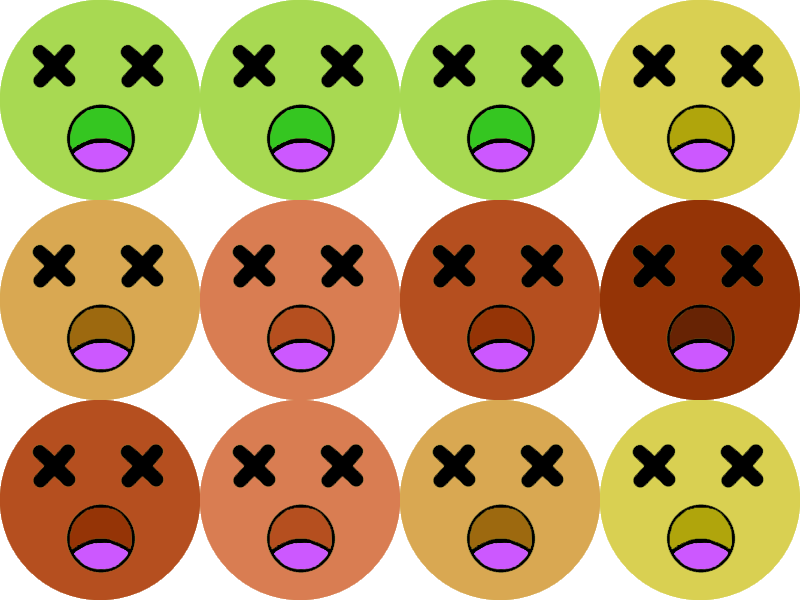
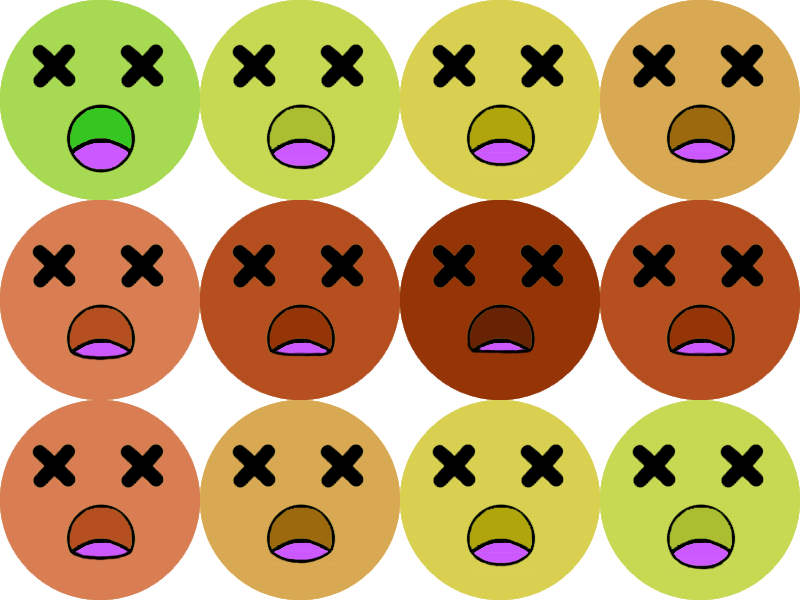
max size stuff

diff --git a/Code/core/src/edu/cornell/gdiac/model/ComplexOobModel.java b/Code/core/src/edu/cornell/gdiac/model/ComplexOobModel.java
@@ -61,6 +61,7 @@ public class ComplexOobModel extends ComplexObstacle {
     private boolean teleporting;
     private boolean hurting;
     private boolean dying;
+    private boolean max;
 
     /** Variables for Oob animation */
 
@@ -157,6 +158,21 @@ public class ComplexOobModel extends ComplexObstacle {
     public void set_Dying_sheet(Texture val){Dying_Sheet = val;}
 
     public Texture get_Dying_sheet(){return Dying_Sheet;}
+
+
+
+
+    private Animation<TextureRegion> Max_Animation; // Must declare frame type (TextureRegion)
+
+    public Animation<TextureRegion> get_Max_anim(){return Max_Animation;}
+
+
+    private Texture Max_Sheet;
+
+    public void set_Max_sheet(Texture val){Max_Sheet = val;}
+
+    public Texture get_Max_sheet(){return Max_Sheet;}
+
 
 
     public void set_Shot_Cooldown(int c) {SHOT_COOLDOWN = c; }
@@ -432,38 +448,44 @@ public class ComplexOobModel extends ComplexObstacle {
 
     public boolean isNormal() {return normal;}
     public void setNormal(boolean bool) {
-        normal = bool; growing = false; command = false; flying=false; teleporting=false; hurting= false; dying= false;
+        normal = bool; growing = false; command = false; flying=false; teleporting=false; hurting= false; dying= false; max= false;
     }
 
     public boolean isGrowing() {return growing;}
     public void setGrowing(boolean bool) {
-        normal = false; growing = bool; command = false; flying=false; teleporting=false; hurting= false; dying= false;
+        normal = false; growing = bool; command = false; flying=false; teleporting=false; hurting= false; dying= false; max= false;
     }
 
     public boolean isCommand() {return command;}
     public void setCommand(boolean bool) {
-        normal = false; growing = false; command = bool; flying=false; teleporting=false; hurting= false; dying= false;
+        normal = false; growing = false; command = bool; flying=false; teleporting=false; hurting= false; dying= false; max= false;
     }
 
     public boolean isFlying() {return flying;}
     public void setFlying(boolean bool) {
-        normal = false; growing = false; command = false; flying = bool; teleporting=false; hurting= false; dying= false;
+        normal = false; growing = false; command = false; flying = bool; teleporting=false; hurting= false; dying= false; max= false;
     }
 
     public boolean isTeleporting() {return teleporting;}
     public void setTeleporting(boolean bool) {
-        normal = false; growing = false; command = false; flying = false; teleporting=bool; hurting= false; dying= false;
+        normal = false; growing = false; command = false; flying = false; teleporting=bool; hurting= false; dying= false; max= false;
     }
 
     public boolean isHurting() {return hurting;}
     public void setHurting(boolean bool) {
-        normal = false; growing = false; command = false; flying=false; teleporting=false; hurting = bool; dying= false;
+        normal = false; growing = false; command = false; flying=false; teleporting=false; hurting = bool; dying= false; max= false;
     }
 
     public boolean isDying() {return dying;}
     public void setDying(boolean bool) {
-        normal = false; growing = false; command = false; flying=false; teleporting=false; hurting= false; dying = bool;
+        normal = false; growing = false; command = false; flying=false; teleporting=false; hurting= false; dying = bool; max= false;
     }
+
+    public boolean isMax() {return max;}
+    public void setMax(boolean bool) {
+        normal = false; growing = false; command = false; flying=false; teleporting=false; hurting= false; dying = false; max= bool;
+    }
+
 
     public void reset_face() {
         normal=false;
@@ -473,15 +495,20 @@ public class ComplexOobModel extends ComplexObstacle {
         teleporting=false;
         hurting=false;
         dying=false;
+        max=false;
     }
 
+
+    public enum Face {
+        NORMAL, GROWING, COMMAND, FLYING, TELEPORTING, HURTING, DYING, MAX
+    }
 
 
 
     public void createNormaltex() {
 
         // Constant rows and columns of the sprite sheet
-        int FRAME_COLS = 40, FRAME_ROWS = 1;
+        int FRAME_COLS = 5, FRAME_ROWS = 5;
 
         // Use the split utility method to create a 2D array of TextureRegions. This is
         // possible because this sprite sheet contains frames of equal size and they are
@@ -501,7 +528,7 @@ public class ComplexOobModel extends ComplexObstacle {
         }
 
         // Initialize the Animation with the frame interval and array of frames
-        Normal_Animation = new Animation<TextureRegion>(.05f, frames);
+        Normal_Animation = new Animation<TextureRegion>(.1f, frames);
 
     }
 
@@ -670,6 +697,32 @@ public class ComplexOobModel extends ComplexObstacle {
         }
 
         // Initialize the Animation with the frame interval and array of frames
-        Dying_Animation = new Animation<TextureRegion>(.1f, frames);
+        Dying_Animation = new Animation<TextureRegion>(.15f, frames);
+    }
+
+    public void createMaxtex() {
+
+        // Constant rows and columns of the sprite sheet
+        int FRAME_COLS = 4, FRAME_ROWS = 3;
+
+        // Use the split utility method to create a 2D array of TextureRegions. This is
+        // possible because this sprite sheet contains frames of equal size and they are
+        // all aligned.
+        TextureRegion[][] tmp = TextureRegion.split(Max_Sheet,
+                Max_Sheet.getWidth() / FRAME_COLS,
+                Max_Sheet.getHeight() / FRAME_ROWS);
+
+        // Place the regions into a 1D array in the correct order, starting from the top
+        // left, going across first. The Animation constructor requires a 1D array.
+        TextureRegion[] frames = new TextureRegion[FRAME_COLS * FRAME_ROWS];
+        int index = 0;
+        for (int i = 0; i < FRAME_ROWS; i++) {
+            for (int j = 0; j < FRAME_COLS; j++) {
+                frames[index++] = tmp[i][j];
+            }
+        }
+
+        // Initialize the Animation with the frame interval and array of frames
+        Max_Animation = new Animation<TextureRegion>(.15f, frames);
     }
 }

diff --git a/Code/core/src/edu/cornell/gdiac/controller/PlayMode.java b/Code/core/src/edu/cornell/gdiac/controller/PlayMode.java
@@ -55,14 +55,15 @@ public class PlayMode extends WorldController implements ContactListener {
 //    protected static final String OOB_HURTING_FILE = "space/planets/blackHole_old.png";
 //    protected static final String OOB_DYING_FILE = "space/planets/dying.png";
 
-    protected static final String OOB_NORMAL_FILE =   "space/animations/OobBlink.png";
+    protected static final String OOB_NORMAL_FILE =   "space/animations/OobNeutral.png";
     //"space/planets/start.png";
     protected static final String OOB_GROWING_FILE = "space/animations/blackHoleAnim.png";
     protected static final String OOB_COMMAND_FILE = "space/animations/explosionAnim.png";
     protected static final String OOB_FLYING_FILE = "space/animations/OobBlink.png";
     protected static final String OOB_TELEPORTING_FILE = "space/animations/oobHappy.png";
     protected static final String OOB_HURTING_FILE = "space/animations/OobSad.png";
-    protected static final String OOB_DYING_FILE = "space/animations/oobDying.png";
+    protected static final String OOB_DYING_FILE = "space/animations/OobDying.png";
+    protected static final String OOB_MAX_FILE = "space/animations/sunAnim.png";
 
 
     /** The texture file for the planets */
@@ -203,6 +204,8 @@ public class PlayMode extends WorldController implements ContactListener {
 
     protected static final float OOB_WARNING_RADIUS = .85f;
 
+    protected static final float OOB_MAX_RADIUS = 2.5f;
+
     protected static final float EPSILON = 0.1f;
 
     protected static final int THRESHOLD = 4;
@@ -285,6 +288,7 @@ public class PlayMode extends WorldController implements ContactListener {
     protected Texture Oob_Teleporting_Sheet;
     protected Texture Oob_Hurting_Sheet;
     protected Texture Oob_Dying_Sheet;
+    protected Texture Oob_Max_Sheet;
 
     private Texture EXP_Sheet;
 
@@ -399,6 +403,8 @@ public class PlayMode extends WorldController implements ContactListener {
         assets.add(OOB_HURTING_FILE);
         manager.load(OOB_DYING_FILE, Texture.class);
         assets.add(OOB_DYING_FILE);
+        manager.load(OOB_MAX_FILE, Texture.class);
+        assets.add(OOB_MAX_FILE);
 
         manager.load(SETTINGS_TEXTURE, Texture.class);
         assets.add(SETTINGS_TEXTURE);
@@ -570,6 +576,7 @@ public class PlayMode extends WorldController implements ContactListener {
         Oob_Teleporting_Sheet = new Texture(Gdx.files.internal(OOB_TELEPORTING_FILE));
         Oob_Hurting_Sheet = new Texture(Gdx.files.internal(OOB_HURTING_FILE));
         Oob_Dying_Sheet = new Texture(Gdx.files.internal(OOB_DYING_FILE));
+        Oob_Max_Sheet = new Texture(Gdx.files.internal(OOB_MAX_FILE));
 
         blackHoleTexture = createTexture(manager, BLACK_HOLE, false);
         expulsion_Texture = createTexture(manager,EXPULSION_TEXTURE, false);
@@ -1153,6 +1160,9 @@ public class PlayMode extends WorldController implements ContactListener {
 
         complexAvatar.set_Dying_sheet(Oob_Dying_Sheet);
         complexAvatar.createDyingtex();
+
+        complexAvatar.set_Max_sheet(Oob_Max_Sheet);
+        complexAvatar.createMaxtex();
     }
 
 
@@ -1532,8 +1542,11 @@ public class PlayMode extends WorldController implements ContactListener {
                 jump();
             } else {
                 rad = currentPlanet.getRadius();
-                if (rad > DEATH_RADIUS && (currentPlanet.getType() == 0f || currentPlanet.getType() == 1f)) {
+                float Oob_rad= complexAvatar.getRadius();
+                if (rad > DEATH_RADIUS && Oob_rad < OOB_MAX_RADIUS && (currentPlanet.getType() == 0f || currentPlanet.getType() == 1f)) {
                     siphonPlanet();
+                } else if (Oob_rad >= OOB_MAX_RADIUS) {
+                   complexAvatar.setMax(true);
                 } else if (currentPlanet.getType() == 2f) {
                     changeMass(POISON);
                 }
@@ -1866,7 +1879,7 @@ public class PlayMode extends WorldController implements ContactListener {
                     else if ( ((ComplexOobModel) obj).isFlying() ) {
                         currentFrame =  ((ComplexOobModel) obj).get_Flying_anim().getKeyFrame(stateTime, true);
                     }
-                    else  {
+                    else {
                         currentFrame =  ((ComplexOobModel) obj).get_Hurting_anim().getKeyFrame(stateTime, true);
                     }
 
@@ -1876,6 +1889,9 @@ public class PlayMode extends WorldController implements ContactListener {
                     }
                     if ( ((ComplexOobModel) obj).isDying() ) {
                         currentFrame =  ((ComplexOobModel) obj).get_Dying_anim().getKeyFrame(stateTime, true);
+                    }
+                    if ( ((ComplexOobModel) obj).isMax() ) {
+                        currentFrame =  ((ComplexOobModel) obj).get_Max_anim().getKeyFrame(stateTime, true);
                     }
 
 
